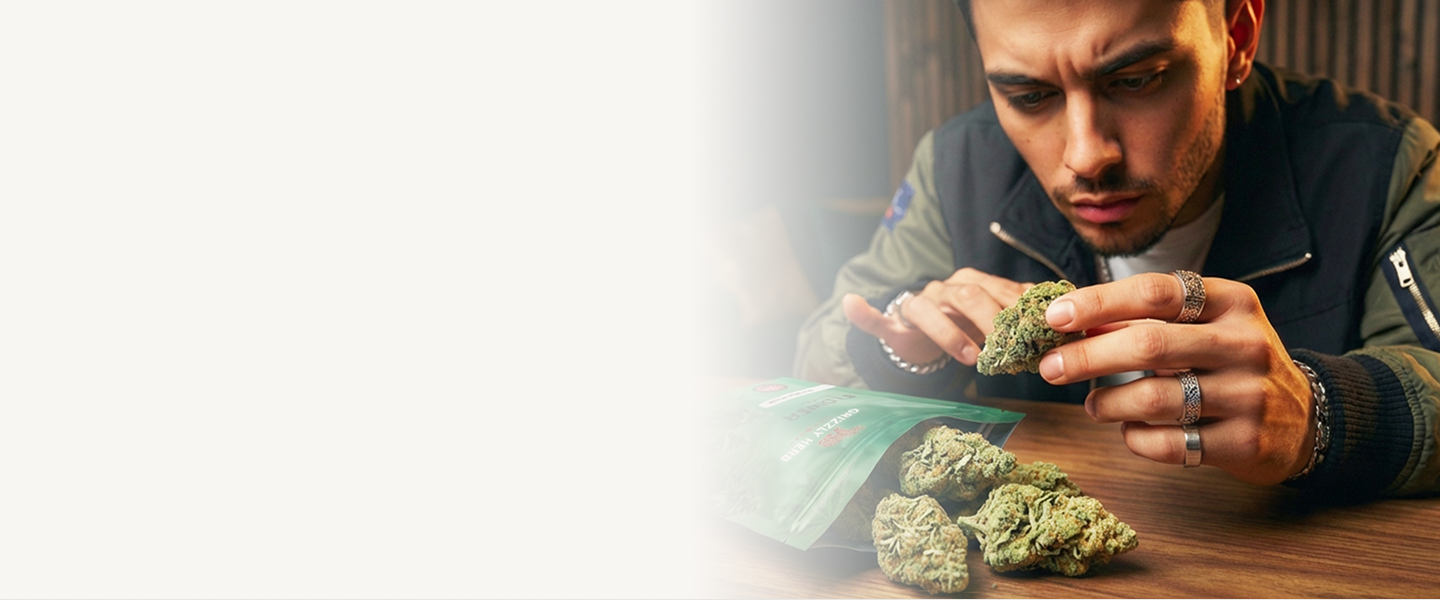
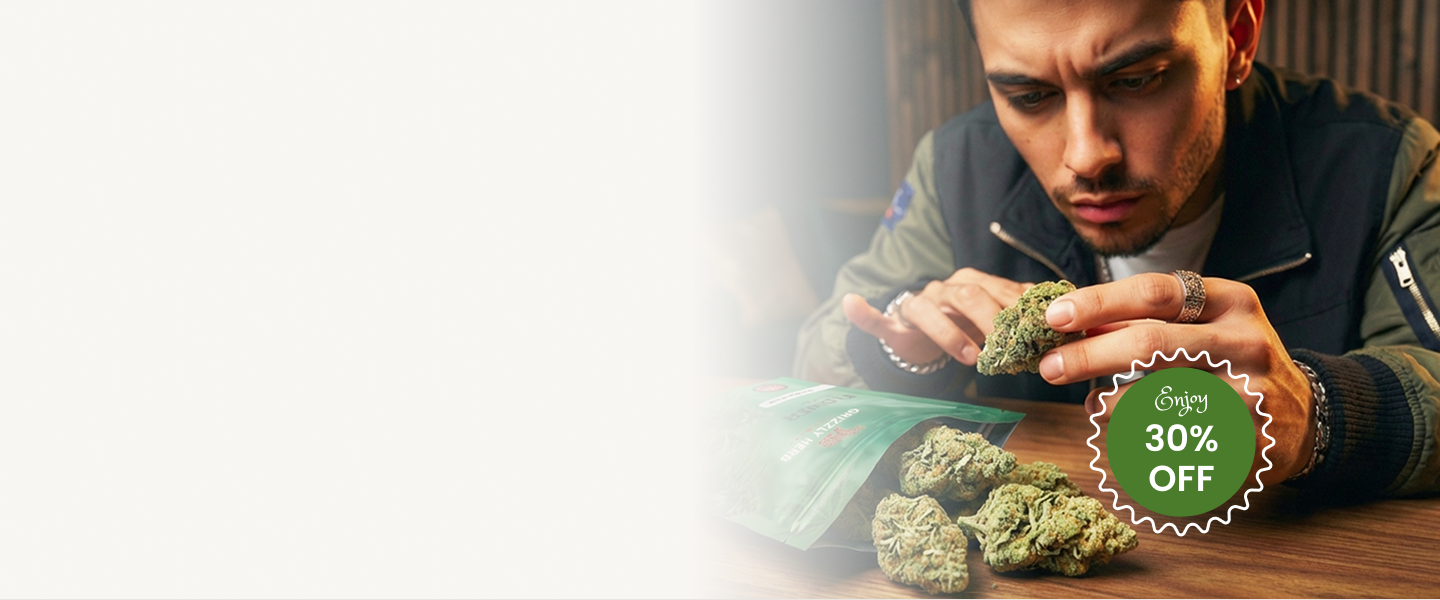
Remove 30% OFF badge and update desktop hero bg to hero desktop (2).png
- Remove badge CSS (mobile + desktop) and HTML
- Replace hero-desktop.png with updated version

Changed region(s): [[0.75, 0.57, 0.9062, 0.9]]

diff --git a/index.html b/index.html
@@ -420,37 +420,6 @@
   color: #3a3a3a;
 }
 
-.gh-hero__badge {
-  position: absolute;
-  top: 16px;
-  left: 16px;
-  width: 66px;
-  height: 66px;
-  background: #2d5016;
-  border-radius: 50%;
-  display: flex;
-  flex-direction: column;
-  align-items: center;
-  justify-content: center;
-  text-align: center;
-  box-shadow: 0 4px 12px rgba(0,0,0,0.15);
-  z-index: 2;
-}
-
-.gh-hero__badge-enjoy {
-  font-family: cursive;
-  font-size: 10px;
-  color: #ffffff;
-  line-height: 1;
-}
-
-.gh-hero__badge-off {
-  font-family: 'Poppins', sans-serif;
-  font-size: 16px;
-  font-weight: 600;
-  color: #ffffff;
-  line-height: 1.1;
-}
 
 @media (min-width: 768px) {
   .gh-hero {
@@ -523,22 +492,6 @@
     padding: 10px 20px;
   }
 
-  .gh-hero__badge {
-    width: 120px;
-    height: 120px;
-    top: auto;
-    left: auto;
-    bottom: 40px;
-    right: 140px;
-  }
-
-  .gh-hero__badge-enjoy {
-    font-size: 24px;
-  }
-
-  .gh-hero__badge-off {
-    font-size: 36px;
-  }
 }
 
 /* ============================================================
@@ -2621,11 +2574,6 @@
 
     </div>
 
-    <!-- Star badge (absolute positioned) -->
-    <div class="gh-hero__badge">
-      <span class="gh-hero__badge-enjoy">Enjoy</span>
-      <span class="gh-hero__badge-off">30% OFF</span>
-    </div>
   </section>
 
   <!-- ======== SECTION 1: EXPLORE OUR HANDPICKED STRAINS ======== -->
